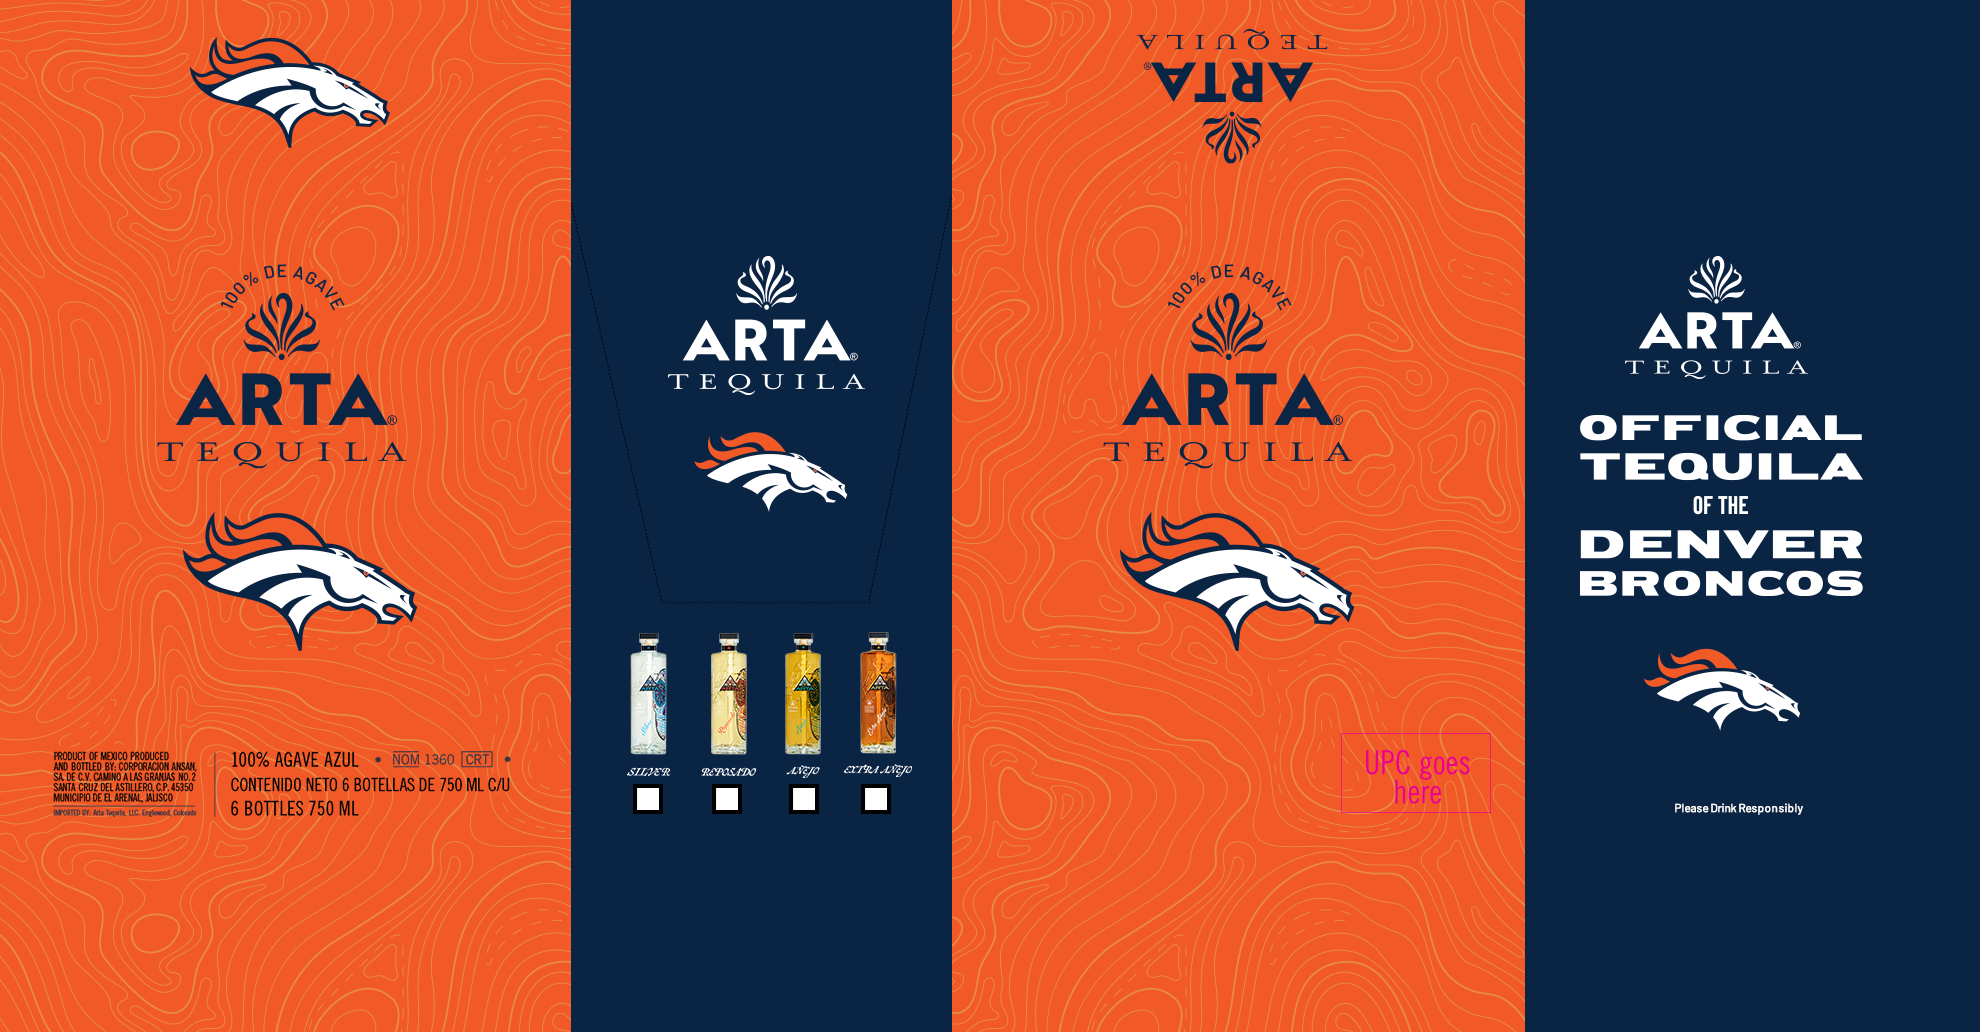
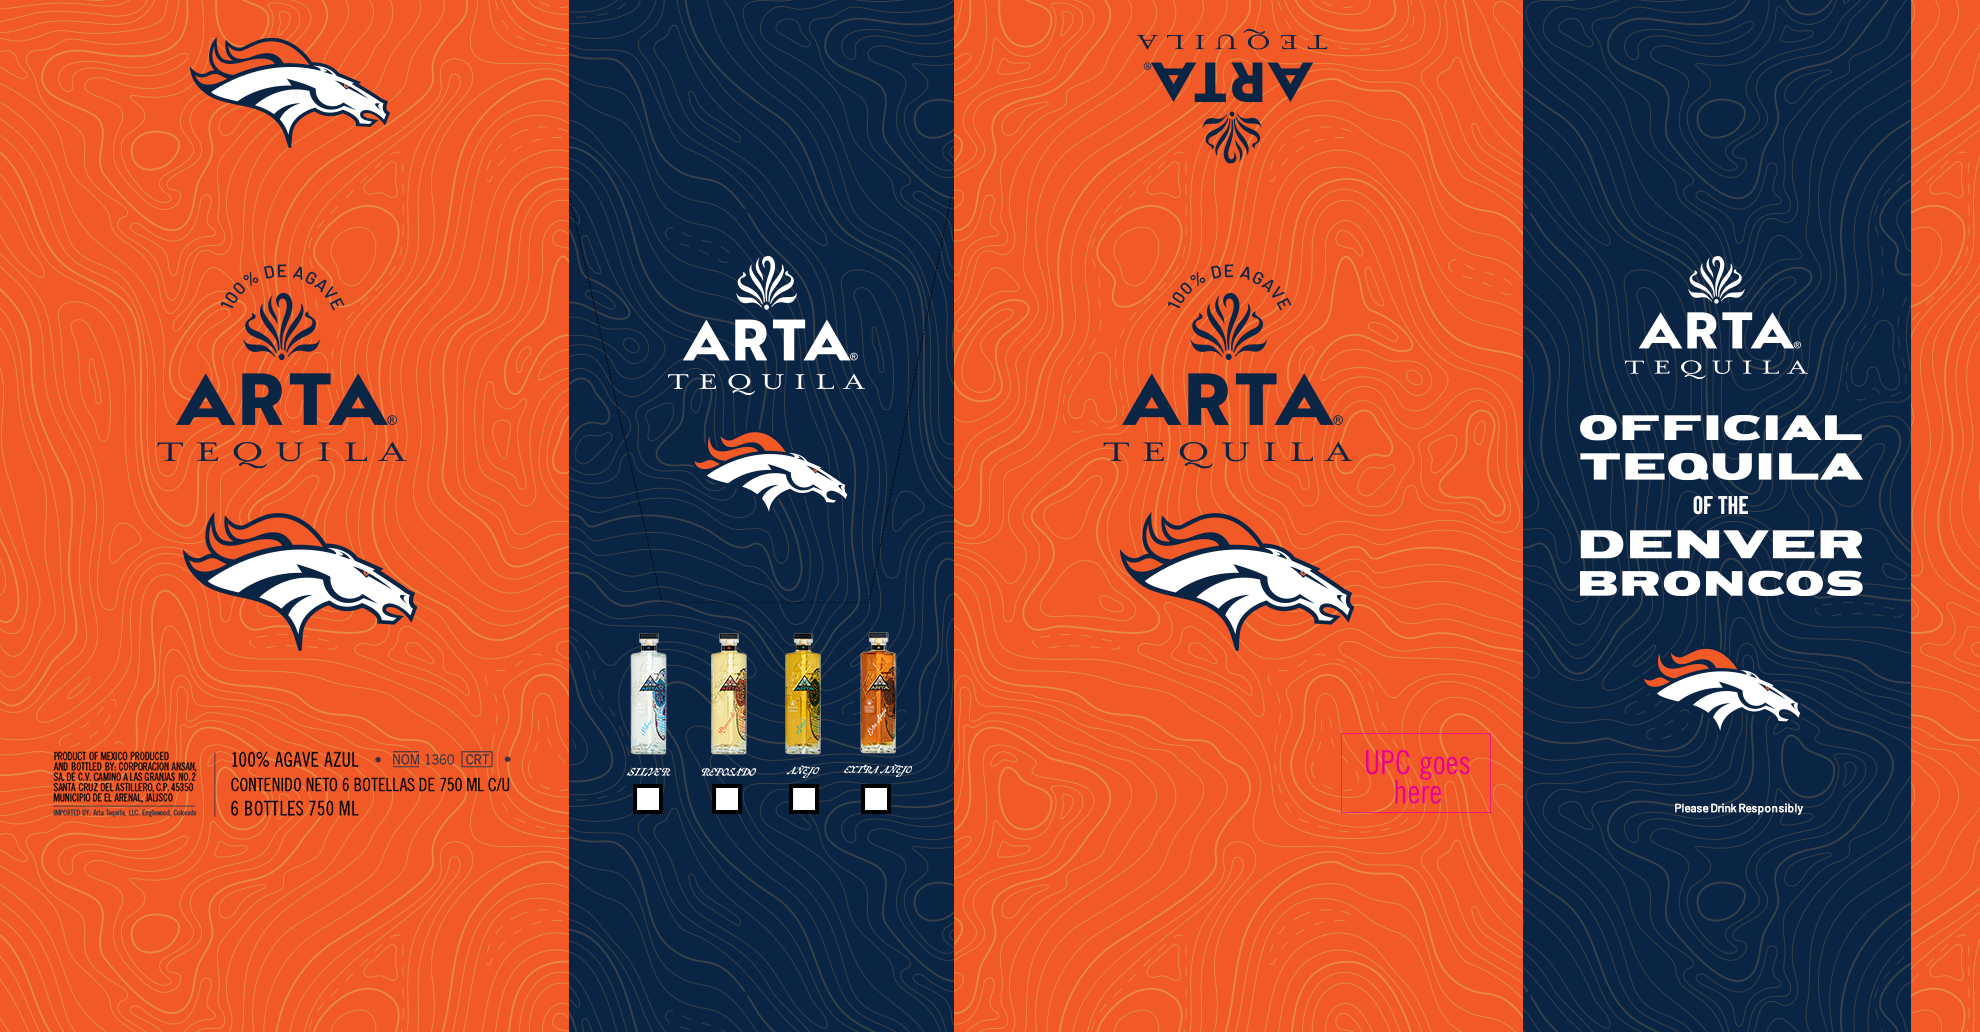
Updated final design texture and samplePresentation.ts

diff --git a/src/data/samplePresentation.ts b/src/data/samplePresentation.ts
@@ -35,14 +35,6 @@ export const samplePresentation: PresentationConfig = {
       },
     },
     {
-      id: 'new 02',
-      type: 'model',
-      content: {
-        header: '',
-        texturePath: '/cartoneDesigns_final_v2.png'
-      },
-    },
-    {
       id: 'round-two',
       type: 'text-only',
       content: {
